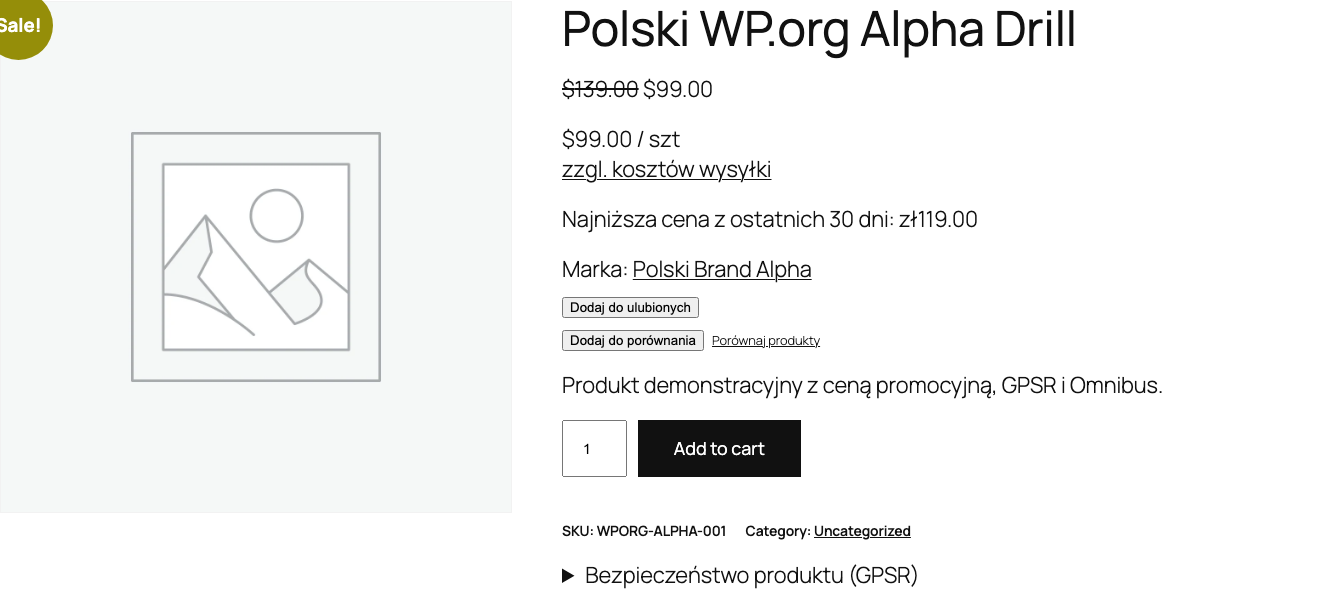
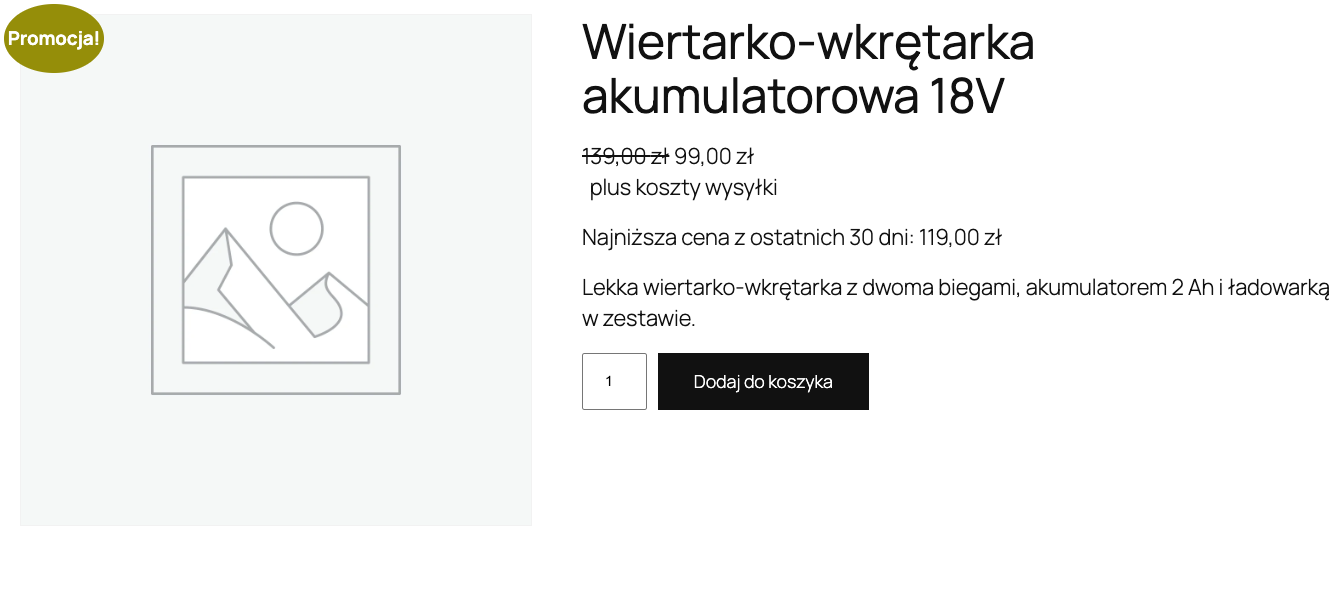
Omnibus screenshot: one shop currency (PLN) for price and lowest-price line
The wp.org screenshot showed $99.00 next to a zloty Omnibus line because the
screenshot fixture recorded PLN history in a USD shop. Recaptured on a PLN,
pl_PL shop (139 zl, sale 99 zl, lowest 30-day price 119 zl) and the fixture
now sets the shop currency to PLN.

diff --git a/tests/E2E/fixtures/wporg-screenshots-bootstrap.php b/tests/E2E/fixtures/wporg-screenshots-bootstrap.php
@@ -20,6 +20,13 @@ require_once ABSPATH . 'wp-admin/includes/user.php';
 update_option('WPLANG', 'pl_PL');
 switch_to_locale('pl_PL');
 
+// The price history below is recorded in PLN; a USD shop shows "$99.00" next
+// to a zloty Omnibus line, which the plugin itself never renders.
+update_option('woocommerce_currency', 'PLN');
+update_option('woocommerce_currency_pos', 'right_space');
+update_option('woocommerce_price_decimal_sep', ',');
+update_option('woocommerce_price_thousand_sep', ' ');
+
 /**
  * Ensure a page exists and return its ID.
  */
